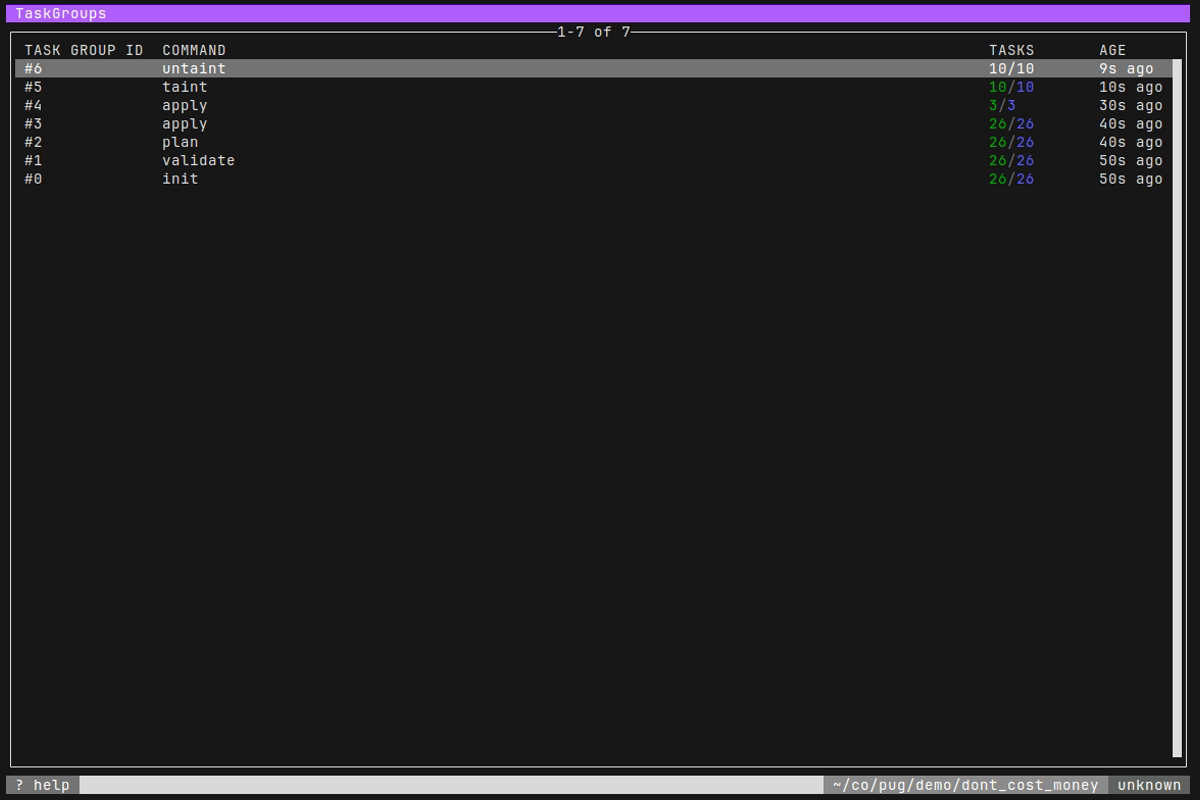
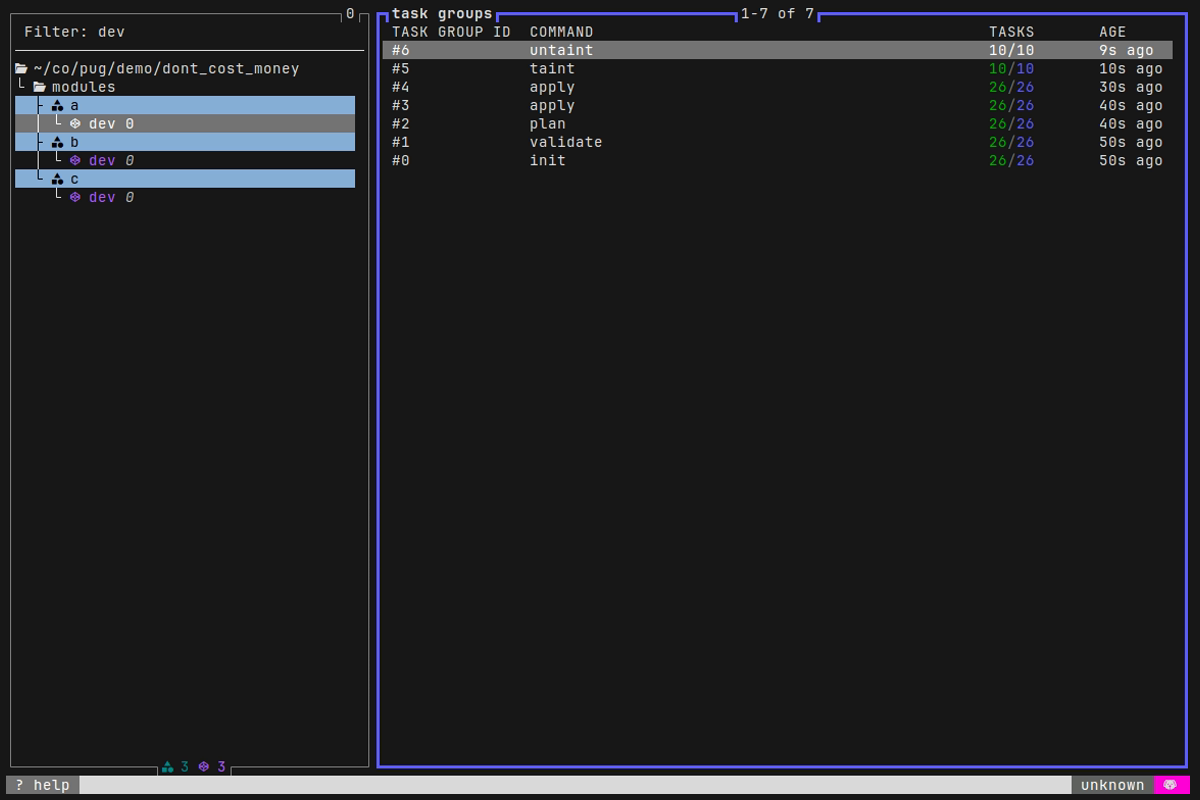
chore: update demo and docs

Changed region(s): [[0.0, 0.0, 1.0, 1.0], [0.1233, 0.9375, 0.2158, 0.9688], [0.8325, 0.2188, 0.8633, 0.25]]

diff --git a/internal/tui/style.go b/internal/tui/style.go
@@ -10,15 +10,6 @@ var (
 	Border      = Regular.Border(lipgloss.NormalBorder())
 	ThickBorder = Regular.Border(lipgloss.ThickBorder()).BorderForeground(Violet)
 
-	Title          = Padded.Foreground(White).Background(Purple)
-	TitleCommand   = Padded.Foreground(White).Background(Blue)
-	TitlePath      = Padded.Foreground(White).Background(modulePathColor)
-	TitleWorkspace = Padded.Foreground(White).Background(Green)
-	TitleID        = Padded.Foreground(White).Background(Green)
-	TitleAddress   = Padded.Foreground(White).Background(Blue)
-	TitleSerial    = Padded.Foreground(Black).Background(Orange)
-	TitleTainted   = Padded.Foreground(White).Background(Red)
-
-	ModuleStyle    = Regular.Foreground(Purple)
-	WorkspaceStyle = Regular.Foreground(Pink)
+	ModuleStyle    = Regular.Foreground(DarkishGreen)
+	WorkspaceStyle = Regular.Foreground(Purple)
 )

diff --git a/internal/tui/color.go b/internal/tui/color.go
@@ -13,6 +13,7 @@ const (
 	Green           = lipgloss.Color("34")
 	Turquoise       = lipgloss.Color("86")
 	DarkGreen       = lipgloss.Color("#325451")
+	DarkishGreen    = lipgloss.Color("30")
 	LightGreen      = lipgloss.Color("47")
 	GreenBlue       = lipgloss.Color("#00A095")
 	DeepBlue        = lipgloss.Color("39")
@@ -26,7 +27,6 @@ const (
 	DarkGrey        = lipgloss.Color("#606362")
 	White           = lipgloss.Color("#ffffff")
 	OffWhite        = lipgloss.Color("#a8a7a5")
-	Pink            = lipgloss.Color("30")
 	HotPink         = lipgloss.Color("200")
 )
 

diff --git a/README.md b/README.md
@@ -64,7 +64,6 @@ FLAGS
       --data-dir STRING              Directory in which to store plan files. (default: /home/louis/.pug)
   -e, --env STRING                   Environment variable to pass to terraform process. Can set more than once.
   -a, --arg STRING                   CLI arg to pass to terraform process. Can set more than once.
-  -f, --first-page STRING            The first page to open on startup. (default: modules)
   -d, --debug                        Log bubbletea messages to messages.log
   -v, --version                      Print version.
   -c, --config STRING                Path to config file. (default: /home/louis/.pug.yaml)
@@ -84,14 +83,12 @@ max-tasks: 100
 
 Pug automatically loads variables from a .tfvars file. It looks for a file named `<workspace>.tfvars` in the module directory, where `<workspace>` is the name of the workspace. For example, if the workspace is named `dev` then it'll look for `dev.tfvars`. If the file exists then it'll pass the name to `terraform plan`, e.g. for a workspace named `dev`, it'll invoke `terraform plan -vars-file=dev.tfvars`.
 
-## Pages
+## Panes
 
-### Modules
+### Explorer
 
 ![Modules screenshot](./demo/modules.png)
  
-Press `m` to go to the modules page.
-
 *Note: what Pug calls a module is equivalent to a [root module](https://developer.hashicorp.com/terraform/language/modules#the-root-module), i.e. a directory containing terraform configuration, including a state backend. It is not to be confused with a [child module](https://developer.hashicorp.com/terraform/language/modules#child-modules).*
 
 #### Key bindings
@@ -149,11 +146,10 @@ Press `s` to go to the state page, listing a workspace's resources.
 |`a`|Run `terraform apply -target`|&check;|
 |`d`|Run `terraform apply -destroy -target`|&check;|
 |`D`|Run `terraform state rm`|&check;|
-|`M`|Run `terraform state mv`|&cross;|
+|`m`|Run `terraform state mv`|&cross;|
 |`Ctrl+t`|Run `terraform taint`|&check;|
 |`U`|Run `terraform untaint`|&check;|
 |`Ctrl+r`|Run `terraform state pull`|-|
-|`S`|Toggle split screen|-|
 |`+`|Increase split screen top pane|-|
 |`-`|Decrease split screen top pane|-|
 |`tab`|Switch split screen pane focus|-|
@@ -219,8 +215,9 @@ These keys are valid on any page.
 |`?`|Open help pane|
 |`Ctrl+c`|Quit|
 |`Esc`|Go to previous page|
-|`m`|Go to modules page|
-|`w`|Go to workspaces page|
+|`0`|Focus left pane (explorer)|
+|`1`|Focus top right pane|
+|`2`|Focus bottom right pane|
 |`s`|Go to state page\*|
 |`t`|Go to tasks page|
 |`T`|Go to task groups page|
